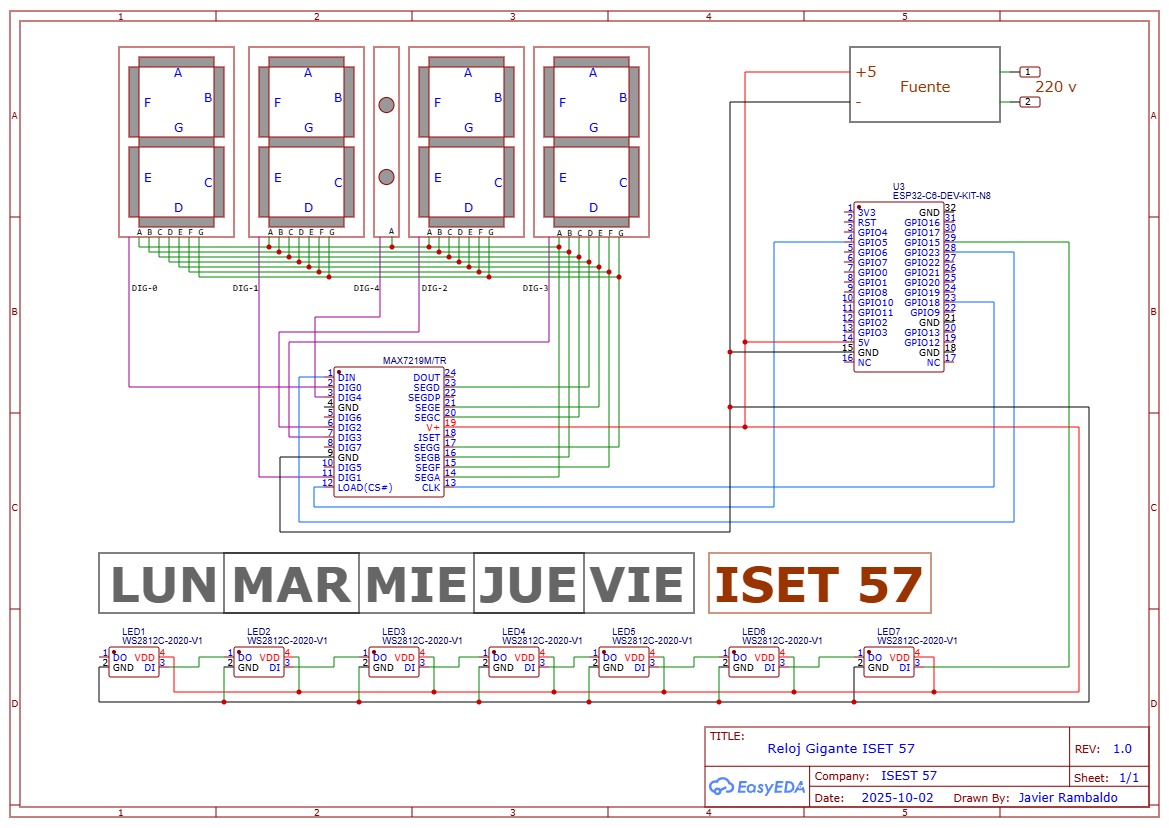
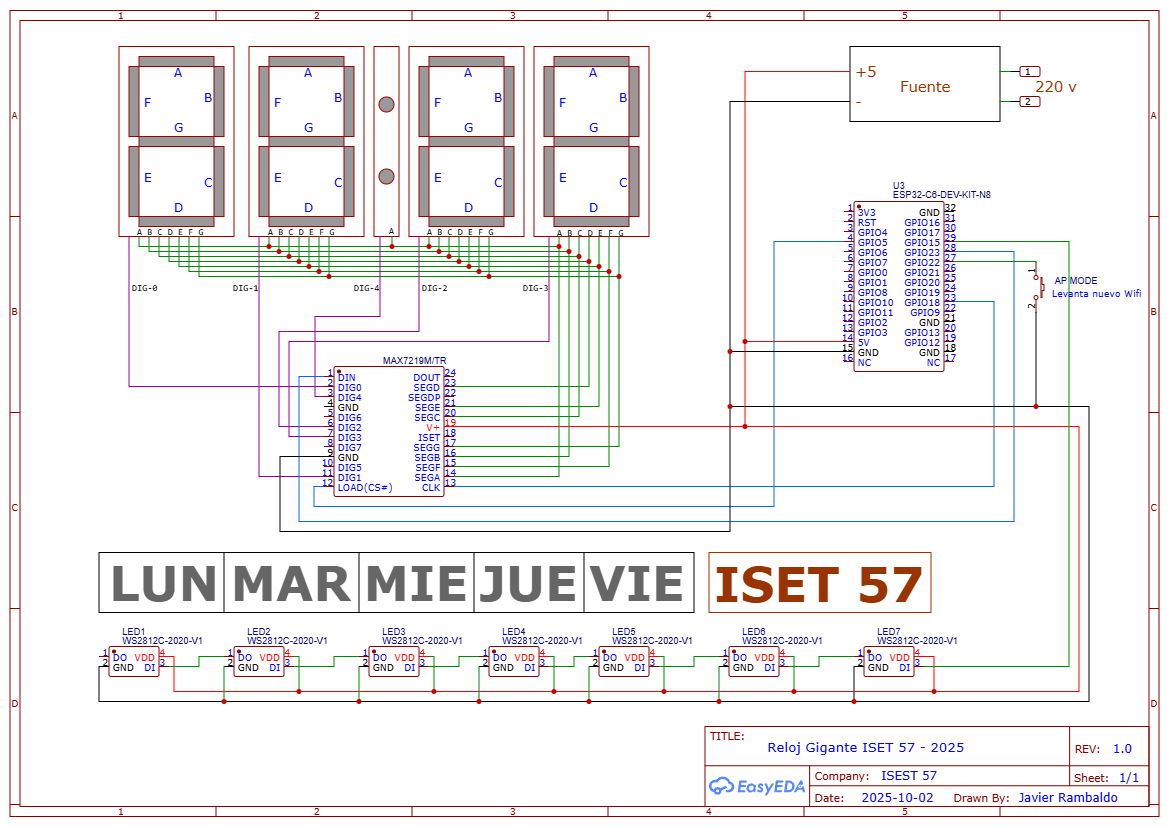
acomodo el wifi porque se reiniciaba, y le puse un boton para levantar la AP

diff --git a/src/reloj-gigante.cpp b/src/reloj-gigante.cpp
@@ -47,6 +47,10 @@
 #define DIG3 0
 #define DIG4 4
 
+// Pulsador para forzar manualmente el portal de configuración WiFi (AP).
+// Cableado: botón entre GPIO22 y GND, usa pull-up interno (presionado = LOW).
+#define BUTTON_AP_PIN 22
+
 // https://arduinoplusplus.wordpress.com/2017/04/14/parola-a-to-z-adapting-for-different-hardware/
 #define HARDWARE_TYPE MD_MAX72XX::PAROLA_HW // PAROLA_HW // GENERIC_HW
 #define MAX_DEVICES 1
@@ -254,6 +258,26 @@ void TestDeMax7219()
   mx.clear();
 }
 
+// Revisa el pulsador de AP manual: si está presionado, fuerza el portal de
+// configuración sin importar el estado actual del WiFi (atajo por si la red
+// conecta pero no tiene internet real, o cualquier otro problema raro).
+void checkBotonAp()
+{
+  static unsigned long lastPress = 0;
+
+  if (digitalRead(BUTTON_AP_PIN) == LOW && (millis() - lastPress) > 300) // debounce simple
+  {
+    lastPress = millis();
+
+    if (!isConfigPortalActive())
+    {
+      Serial.println("Botón AP presionado: forzando portal de configuración manualmente");
+      AllLeds(CRGB::Black);
+      startConfigPortal();
+    }
+  }
+}
+
 void TestDeRgbLeds()
 {
   Serial.println("Test de Leds RGB WS2812B");
@@ -277,6 +301,14 @@ void setup()
   delay(222);
   Serial.println("RESET!\n**Reloj Gigante ISET 57**");
   Serial.println("Version 2.0 - Portal de Configuración WiFi");
+
+  // Restaura la última hora sincronizada (RAM del RTC) para mostrar algo
+  // razonable de inmediato, sin esperar a que haya WiFi/NTP. Mas abajo se
+  // intenta corregir una vez vía NTP (ver loop()).
+  restoreTimeFromRTC();
+
+  // pulsador manual para forzar el AP
+  pinMode(BUTTON_AP_PIN, INPUT_PULLUP);
 
   // inicio MAX7219
   mx.begin();
@@ -353,67 +385,76 @@ void loop()
   static bool clockError = false;
   static CHSV randomColor(135, 255, 240);
 
+  // Chequeo del pulsador manual de AP (funciona siempre, conectado o no)
+  checkBotonAp();
+
   // ========== MODO PORTAL DE CONFIGURACIÓN ==========
   // Si el portal está activo, no ejecutar la lógica normal del reloj
   if (isConfigPortalActive())
   {
-    // Animación visual para indicar modo configuración
-    static unsigned long lastBlink = 0;
-    static bool ledState = false;
+    // Animación visual para indicar modo configuración: LUN-VIE en verde con un rojo circulando
+    static unsigned long lastAnim = 0;
+    static unsigned long lastSecond = 0;
     static int elapsedBeforeReboot = 0;
 
-    if (millis() - lastBlink > 1000) // Parpadeo cada segundo
+    if (millis() - lastAnim > 120)
     {
-      lastBlink = millis();
-      ledState = !ledState;
+      lastAnim = millis();
+      LedsApMode();
+    }
 
-      if (ledState)
-        AllLeds(CRGB::Blue); // Azul = modo configuración
-      else
-        AllLeds(CRGB::Black);
+    if (millis() - lastSecond > 1000) // contador de segundos (independiente de la animación)
+    {
+      lastSecond = millis();
+      elapsedBeforeReboot++;
+      if (elapsedBeforeReboot > 600) // 600 seg = 10 min de tiempo para que se conecten al AP.
+      {
+        ESP.restart(); // reboot: para que intente wifi otra vez.
+      }
     }
 
     delay(10); // Pequeña pausa para no saturar el loop
-
-    elapsedBeforeReboot++;
-    if (elapsedBeforeReboot > 60) // 10*60=600 seg, 10 min de tiempo para que se conecten al AP.
-    {
-      ESP.restart(); // reboot: para que intente wifi otra vez.
-    }
     return; // No ejecutar resto del código
   }
 
   // ========== MODO NORMAL ==========
 
   // intenta reconectarse cada vez que no este conectado.
-  static int reconnectionAttempts = 0;
   if (WiFi.status() != WL_CONNECTED)
   {
     Serial.println("WiFi desconectado, intentando reconectar...");
     if (!wifiConnect())
     {
-      reconnectionAttempts++;
-      // Si falla la reconexión, activar portal de configuración
-      if (reconnectionAttempts == 5)
-      {
-        Serial.println("Reconexión falló, activando portal de configuración");
-        startConfigPortal();
-      }
+      // wifiConnect ya hizo 3 intentos; si fallo, activar portal de configuración
+      Serial.println("Reconexión falló tras 3 intentos, activando portal de configuración");
+      AllLeds(CRGB::Black);
+      startConfigPortal();
       return;
     }
-    reconnectionAttempts = 0;
   }
 
-  // la primera vez y cada 1 hora se sincroniza con el reloj de internet.
-  if (!isTimeSet())
+  // Se sincroniza por NTP una sola vez por arranque, para corregir el tiempo
+  // que pasó apagado/reiniciando (la hora restaurada del RTC es aproximada).
+  // Una vez lograda, no se vuelve a repetir hasta el próximo reset.
+  static bool ntpSynced = false;
+  if (!ntpSynced)
   {
-    AllLeds(CRGB::Yellow); // se pone en hora...
-    if (!syncTimeWithNTP())
+    if (!isTimeSet())
+      AllLeds(CRGB::Yellow); // todavía no tenemos ninguna hora (ni restaurada ni por NTP)
+
+    if (syncTimeWithNTP())
     {
+      ntpSynced = true;
+    }
+    else if (!isTimeSet())
+    {
+      // sin hora restaurada y sin NTP: no hay nada que mostrar todavía.
       AllLeds(CRGB::Red1); // fallo!
       delay(2000);
       return;
     }
+    // si ya teniamos una hora restaurada del RTC, seguimos mostrándola y
+    // reintentamos el NTP en la próxima vuelta del loop.
   }
 
   // Actualiza los leds (no son bloqueantes)

diff --git a/src/miWebServer.cpp b/src/miWebServer.cpp
@@ -1,10 +1,17 @@
 #include "miWebServer.h"
 #include <time.h>
+#include <sys/time.h>
+#include <esp_attr.h>
 
 // Variables globales
 Preferences preferences;
 AsyncWebServer* server = nullptr;
 bool configPortalActive = false;
+
+// Última hora sincronizada por NTP, guardada en RAM del RTC: sobrevive a un
+// reset por software (ESP.restart()/esp_restart()), pero se pierde si se
+// corta la alimentación (no hay RTC con batería de respaldo).
+RTC_DATA_ATTR time_t rtcLastSyncedTime = 0;
 
 // Inicia la conexión a las redes WiFi
 bool wifiConnect()
@@ -28,37 +35,49 @@ bool wifiConnect()
 
     // Configurar modo Station
     WiFi.mode(WIFI_STA);
-    WiFi.begin(ssid.c_str(), password.c_str());
 
-    Serial.print("Conectando a WiFi");
-    int cont = 0;
-    int maxAttempts = 60; // 30 segundos (60 x 500ms)
+    const int maxIntentos = 3;
+    const int maxAttemptsPorIntento = 20; // 10 segundos (20 x 500ms) por intento
 
-    while (WiFi.status() != WL_CONNECTED)
+    for (int intento = 1; intento <= maxIntentos; intento++)
     {
-        delay(500);
-        Serial.print(".");
-        cont++;
+        Serial.print("Conectando a WiFi (intento ");
+        Serial.print(intento);
+        Serial.print("/");
+        Serial.print(maxIntentos);
+        Serial.print(")");
 
-        if (cont >= maxAttempts)
+        WiFi.begin(ssid.c_str(), password.c_str());
+
+        int cont = 0;
+        while (WiFi.status() != WL_CONNECTED && cont < maxAttemptsPorIntento)
         {
-            Serial.println("\nNo se pudo conectar a la red WiFi después de varios intentos");
-            Serial.println("Conexión WiFi FALLÓ - se requiere configuración");
-            WiFi.disconnect();
-            return false;
+            delay(500);
+            Serial.print(".");
+            cont++;
         }
+        Serial.println();
+
+        if (WiFi.status() == WL_CONNECTED)
+        {
+            Serial.println("¡Conectado exitosamente!");
+            Serial.print("SSID: ");
+            Serial.println(WiFi.SSID());
+            Serial.print("IP: ");
+            Serial.println(WiFi.localIP());
+            Serial.print("RSSI: ");
+            Serial.print(WiFi.RSSI());
+            Serial.println(" dBm");
+            return true;
+        }
+
+        WiFi.disconnect();
+        delay(200);
     }
 
-    Serial.println("\n¡Conectado exitosamente!");
-    Serial.print("SSID: ");
-    Serial.println(WiFi.SSID());
-    Serial.print("IP: ");
-    Serial.println(WiFi.localIP());
-    Serial.print("RSSI: ");
-    Serial.print(WiFi.RSSI());
-    Serial.println(" dBm");
-
-    return true;
+    Serial.println("No se pudo conectar a la red WiFi después de 3 intentos");
+    Serial.println("Conexión WiFi FALLÓ - se requiere configuración");
+    return false;
 }
 
 bool isTimeSet()
@@ -98,12 +117,39 @@ bool syncTimeWithNTP()
                 Serial.print("Hora sincronizada: ");
                 Serial.println(buf);
                 lasTimeAtHourOk = millis(); // Actualizar SOLO cuando la sincronización fue exitosa
+                rtcLastSyncedTime = now;    // Guardar en RAM del RTC para sobrevivir a un reset
                 return true;
             }
             delay(100); // Evitar saturar el watchdog durante la espera de NTP
         }
         Serial.println("No se pudo sincronizar la hora (timeout)");
     }
+    return false;
+}
+
+// Restaura la última hora sincronizada guardada en RAM del RTC (si hay una
+// válida) para que el reloj muestre algo razonable inmediatamente después de
+// un reset, sin esperar a que haya WiFi/NTP disponible. Devuelve true si
+// restauró una hora.
+bool restoreTimeFromRTC()
+{
+    if (rtcLastSyncedTime > 1759968000) // mismo criterio que isTimeSet()
+    {
+        struct timeval tv;
+        tv.tv_sec = rtcLastSyncedTime;
+        tv.tv_usec = 0;
+        settimeofday(&tv, nullptr);
+
+        struct tm timeinfo;
+        localtime_r(&rtcLastSyncedTime, &timeinfo);
+        char buf[64];
+        strftime(buf, sizeof(buf), "%c", &timeinfo);
+        Serial.print("Hora restaurada desde RAM del RTC: ");
+        Serial.println(buf);
+        return true;
+    }
+
+    Serial.println("No hay hora guardada en RAM del RTC");
     return false;
 }
 

diff --git a/src/Leds.cpp b/src/Leds.cpp
@@ -162,3 +162,24 @@ void SetLed(int ledNum, CRGB col)
     leds[ledNum] = col;
     FastLED.show();
 }
+
+// Modo Access Point: LUN a VIE en verde, con un punto rojo circulando sobre ellos.
+// Los dias ocupan el rango 18..50 (contiguo), salvo el 37 que no se usa (hueco entre Jue y Mie).
+void LedsApMode()
+{
+    static int pos = 18;
+
+    for (int i = 18; i <= 50; i++)
+    {
+        if (i == 37)
+            continue;
+        leds[i] = (i == pos) ? CRGB::Red : CRGB::Green;
+    }
+    FastLED.show();
+
+    do
+    {
+        if (++pos > 50)
+            pos = 18;
+    } while (pos == 37);
+}

diff --git a/src/miWebServer.h b/src/miWebServer.h
@@ -12,6 +12,7 @@
 bool syncTimeWithNTP();
 bool wifiConnect();
 bool isTimeSet();
+bool restoreTimeFromRTC();
 
 // Nuevas funciones para gestión de credenciales WiFi
 void saveWiFiCredentials(const char *ssid, const char *password);

diff --git a/src/Leds.h b/src/Leds.h
@@ -23,3 +23,4 @@ void ToggleLeds(CRGB col1, uint8_t brillo1, CRGB col2, uint8_t brillo2);
 void updateRainbow();
 void SetLed(int ledNum, CRGB col);
 void Cocoon(CRGB col);
+void LedsApMode();

diff --git a/CLAUDE.md b/CLAUDE.md
@@ -12,7 +12,7 @@ Hardware components:
 - WS2812B RGB LED strip (52 LEDs total: 35 for weekdays + 17 for "ISET 57")
 - WiFi connectivity for NTP time synchronization
 
-**Known Issue**: No RTC with battery backup - time is lost on power failure.
+**Known Issue**: No RTC with battery backup - time is lost on power failure (full power loss). A software reset (`ESP.restart()`/`esp_restart()`) does NOT lose the time, since the last synced time is cached in RTC RAM (`RTC_DATA_ATTR`, which survives soft resets) and restored at boot — see "Time persistence across resets" below.
 
 ## Build & Development Commands
 
@@ -76,8 +76,8 @@ WiFi credentials are in [src/config.h](src/config.h). Edit this file to change S
 - `LedsKitt(...)`: KITT car scanner effect (used in startup test)
 
 **miWebServer.cpp/h** - WiFi and NTP time synchronization
-- `wifiConnect()`: Connects to WiFi (30 second timeout, then calls `esp_restart()`)
-- `syncTimeWithNTP()`: Synchronizes ESP32 time via NTP (runs every hour)
+- `wifiConnect()`: Connects to WiFi, retrying up to 3 times (~10s each). Returns `false` if all 3 fail; the caller (`setup()`/`loop()`) is responsible for starting the config portal (AP) in that case.
+- `syncTimeWithNTP()`: Synchronizes ESP32 time via NTP
   - Uses 3 NTP servers: time.google.com, time.cloudflare.com, ar.pool.ntp.org
   - Timezone: UTC-3 (Argentina)
   - Includes 100ms delay in polling loop to prevent watchdog resets
@@ -87,8 +87,14 @@ WiFi credentials are in [src/config.h](src/config.h). Edit this file to change S
 
 ### Critical Design Details
 
-**NTP Synchronization Caching**:
-The `syncTimeWithNTP()` function caches successful sync timestamp and only re-syncs after 1 hour. The variable `lasTimeAtHourOk` must only be updated AFTER successful sync to prevent premature caching.
+**Time is synced only once per boot, by design**:
+In `loop()`, NTP sync is gated by a local `static bool ntpSynced` flag (not by `isTimeSet()`), and only attempted while `!ntpSynced`. Once `syncTimeWithNTP()` succeeds, it's never called again until the next reset — WiFi disconnects/reconnects afterward do NOT trigger a resync. The ESP32's software clock (`time()`) keeps advancing on its own via the system tick regardless of WiFi state, so once set it stays accurate until the chip reboots. This is intentional: the clock does not need to "re-sync every hour" to stay correct. `syncTimeWithNTP()` still contains internal hourly-cache logic (`lasTimeAtHourOk`) for a periodic-resync use case, but it is currently dead code given the one-shot caller gating.
+
+**Time persistence across resets (RTC RAM)**:
+`syncTimeWithNTP()` saves the last successfully synced time into `rtcLastSyncedTime`, a `RTC_DATA_ATTR time_t` in `miWebServer.cpp`. RTC RAM survives a software reset (`ESP.restart()`/`esp_restart()`) but is cleared on real power loss (no battery backup). `setup()` calls `restoreTimeFromRTC()` first thing, which — if a valid saved time is found — calls `settimeofday()` so the clock shows a reasonable time immediately, before WiFi/NTP is even available. `isTimeSet()` becomes true right away in that case, so the display proceeds normally while `loop()` still attempts one NTP sync in the background (via the `ntpSynced` gate above) to correct whatever time passed during the reset; once that succeeds, `rtcLastSyncedTime` is refreshed and nothing more happens until the next reset.
+
+**Reboot triggers**:
+The only places that call `ESP.restart()`/`esp_restart()` are: the config-portal 10-minute timeout (`reloj-gigante.cpp`), and after successfully saving new WiFi credentials via the `/connect` web endpoint (`miWebServer.cpp`). A transient WiFi drop that reconnects within 3 attempts never reboots and never touches the time at all.
 
 **Watchdog Timer Management**:
 ESP32 has a default ~5 second watchdog. Long-running operations need periodic delays:
